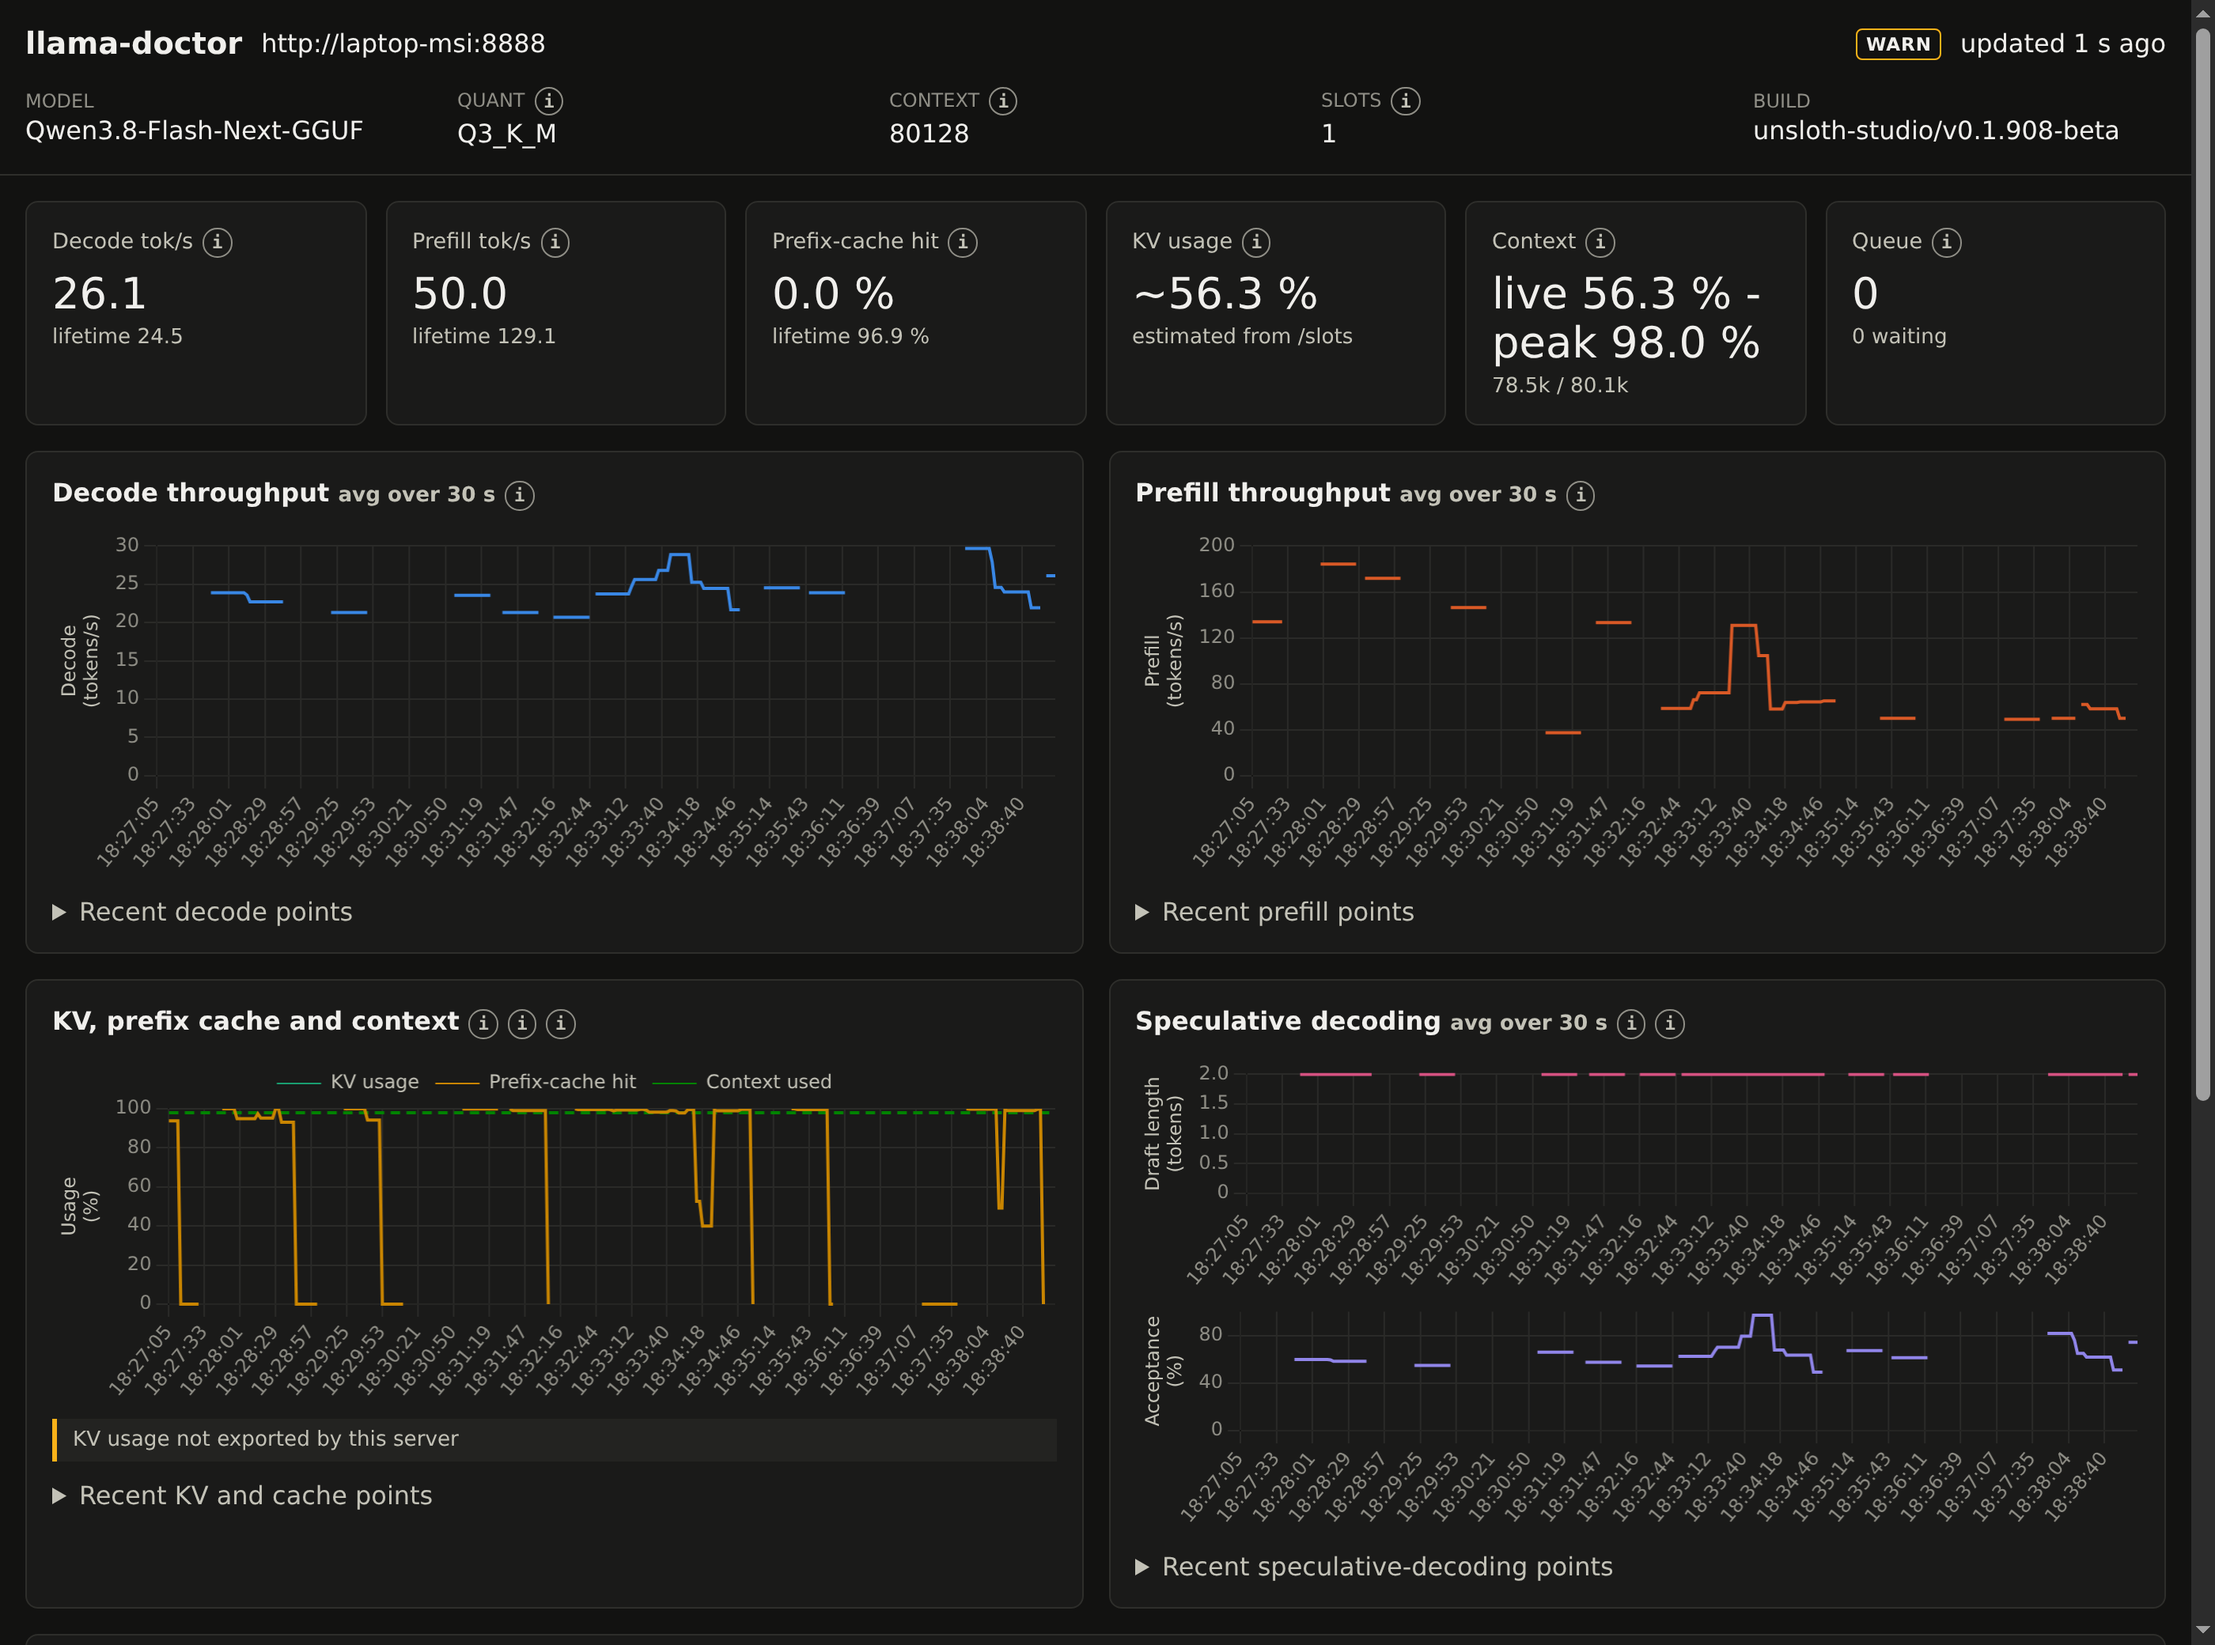
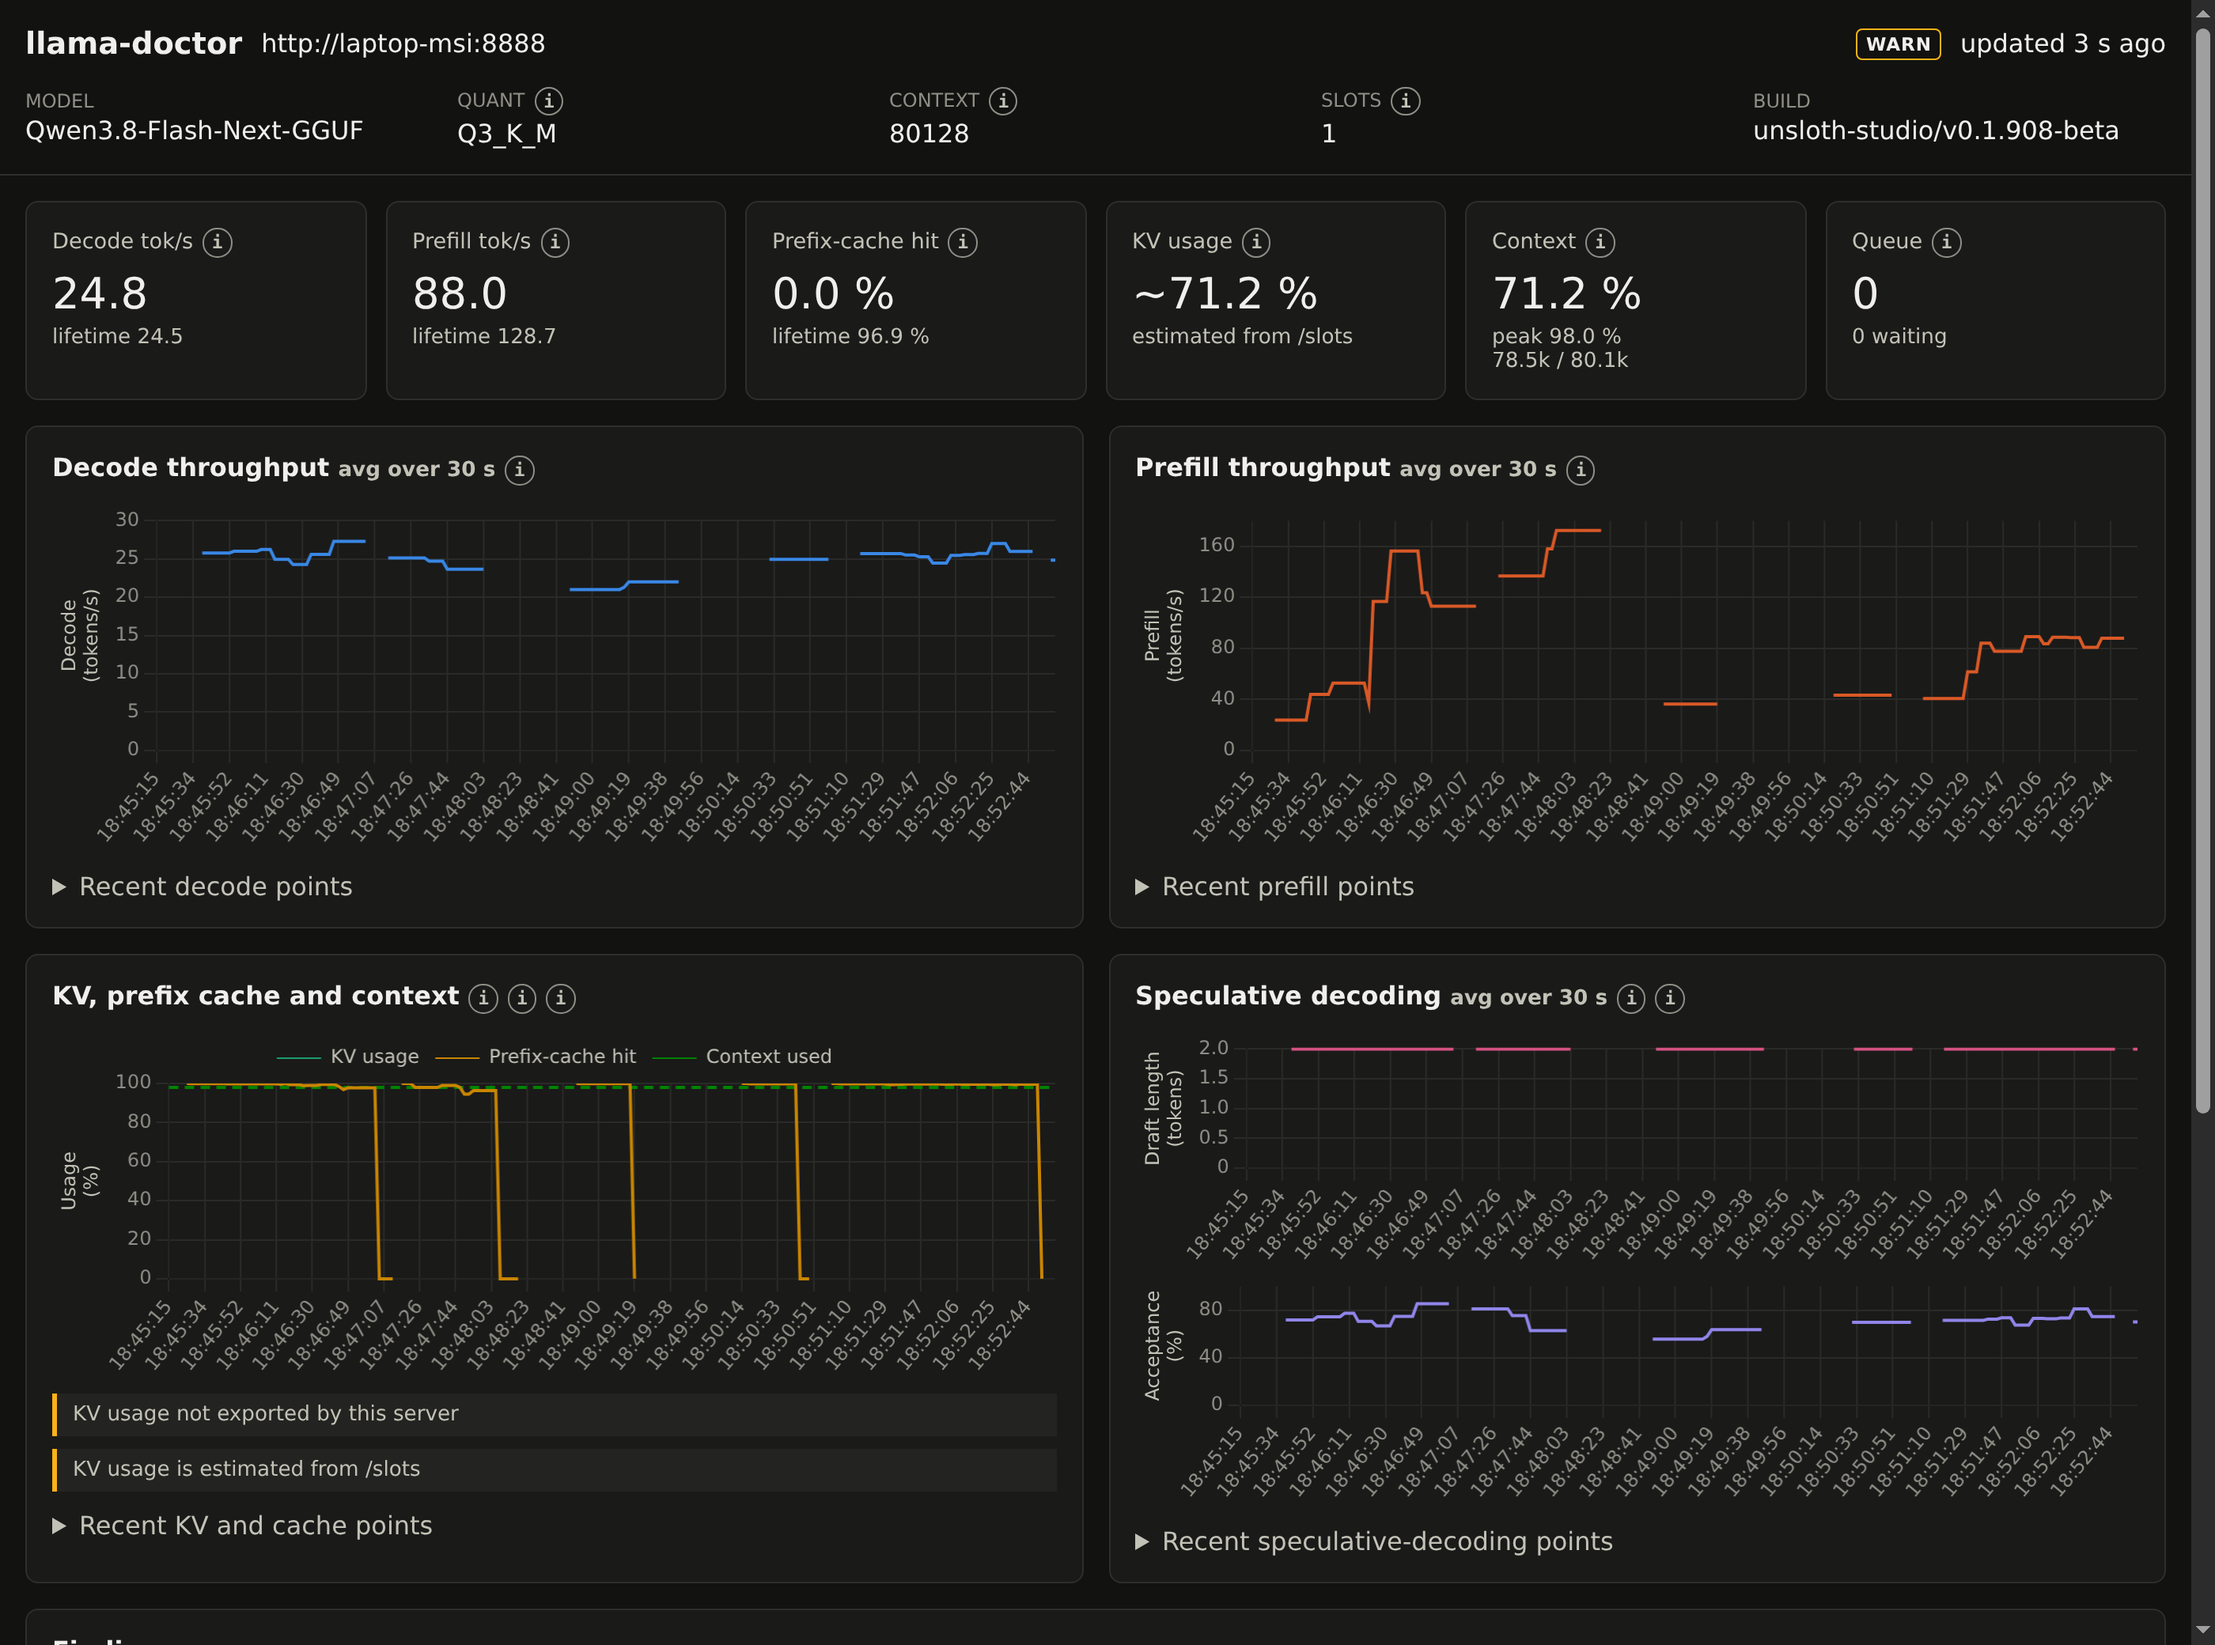
Context tile: live percentage as hero with peak as lifetime-style secondary; recapture screenshots

diff --git a/src/llama_doctor/dashboard/static/app.js b/src/llama_doctor/dashboard/static/app.js
@@ -235,7 +235,8 @@
     const used = number(context.live_used);
     const capacity = number(context.live_capacity);
     if (used !== null && capacity !== null && capacity > 0) {
-      append(body, "div", `live ${percent(used / capacity)} - peak ${percent(number(context.used_ratio))}`, "hero");
+      append(body, "div", percent(used / capacity), "hero");
+      append(body, "div", `peak ${percent(number(context.used_ratio))}`, "secondary");
     } else {
       append(body, "div", percent(number(context.used_ratio)), "hero");
     }

diff --git a/src/llama_doctor/catalog.py b/src/llama_doctor/catalog.py
@@ -125,9 +125,9 @@ METRICS: dict[str, dict[str, str]] = {
         "description": (
             "Peak tokens held in context since the server started (n_tokens_max) as a share of "
             "n_ctx; it is the highest point observed, not the instantaneous use of the current request. "
-            "When /slots is readable the tile reads 'live X % - peak Y %': live is the tokens "
-            "held by the slots right now (prompt plus decoded) over their summed n_ctx, peak is "
-            "this figure."
+            "When /slots is readable the tile's large value is live X %, the tokens "
+            "held by the slots right now (prompt plus decoded) over their summed n_ctx, and the "
+            "small line reads 'peak Y %', this figure."
         ),
         "interpretation": (
             "At 90 % or more the longest conversation nearly hit the window, so raise -c or trim "

diff --git a/tests/test_static.py b/tests/test_static.py
@@ -198,6 +198,11 @@ class TestStaticFiles(unittest.TestCase):
         self.assertIn("percent(number(context.used_ratio))", self.app_js)
         self.assertIn('text(context.label, "n/a")', self.app_js)
 
+    def test_context_tile_live_hero_with_peak_secondary_like_rate_tiles(self):
+        self.assertIn('append(body, "div", percent(used / capacity), "hero");', self.app_js)
+        self.assertIn('`peak ${percent(number(context.used_ratio))}`, "secondary"', self.app_js)
+        self.assertNotIn("live ${percent", self.app_js)
+
     def test_kv_chart_has_context_used_series(self):
         self.assertIn('label: "Context used"', self.app_js)
         self.assertIn('["kv_usage_ratio", "cache_hit_ratio", "context_used_ratio"]', self.app_js)
